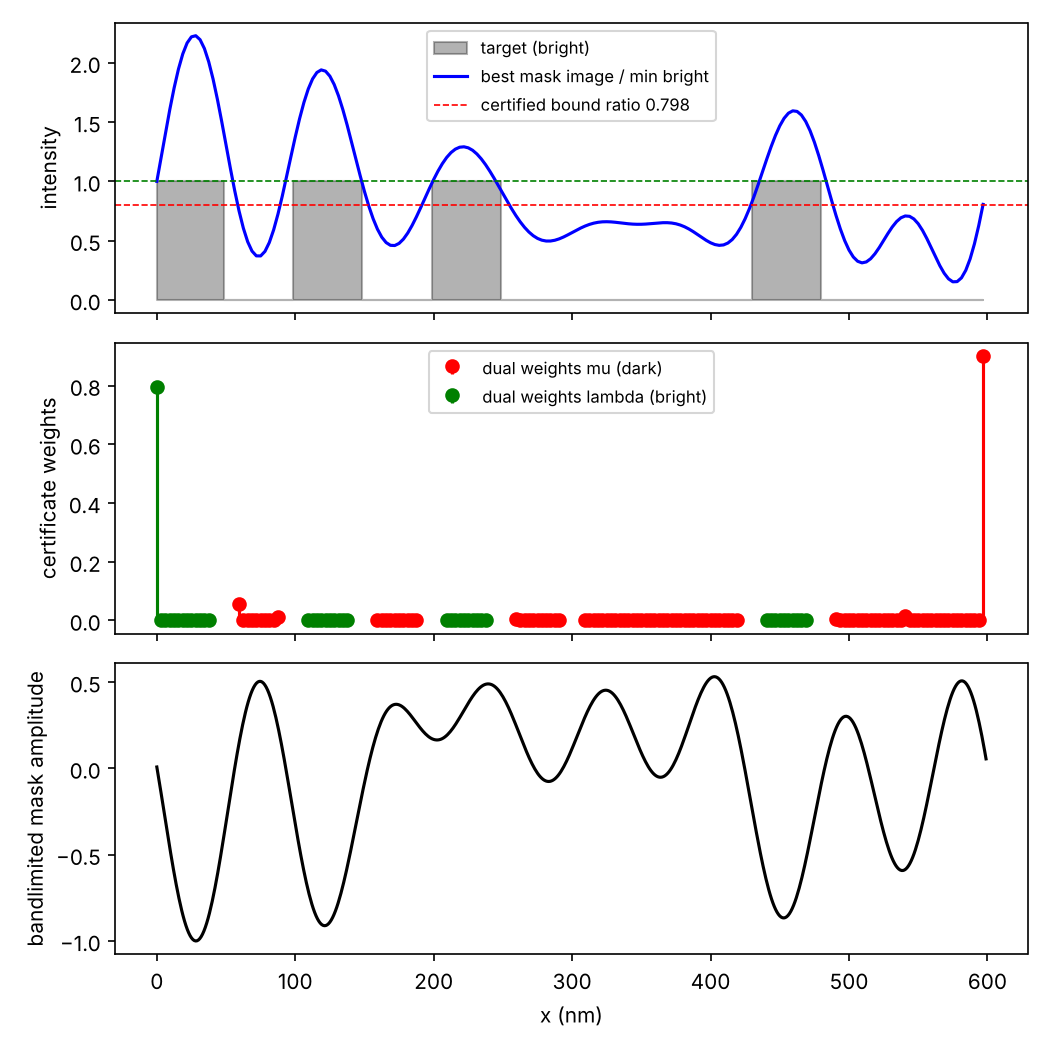
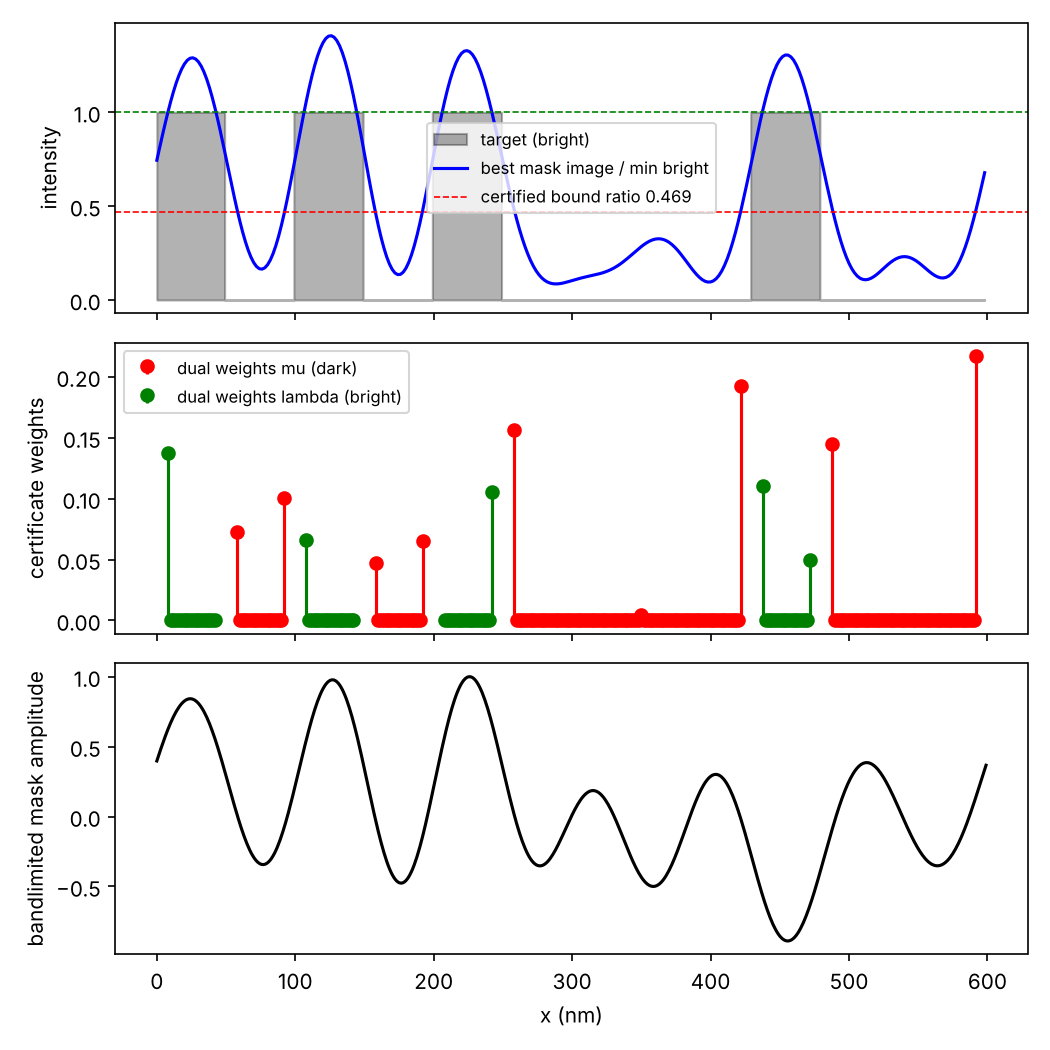
Add figures, outlier re-examination, manuscript updates
Claude-Session: https://claude.ai/code/session_013PTByAKYPg9y6TF4MuGJPW

diff --git a/results/RESULTS_TABLES.md b/results/RESULTS_TABLES.md
@@ -20,7 +20,7 @@
 | mixed_coh | 7 | 0.6235 | 0.6408 | 0.6408 | 2.78% | optimal_inaccurate |
 | isodense_coh | 9 | 0.5645 | 0.5738 | 0.5738 | 1.63% | optimal_inaccurate |
 
-### Random 1D targets (n=6): gap ≤1e-4: 100.0%; ≤1%: 100.0%; ≤5%: 100.0%; median 2.3e-07; max 0.000; worst certificate min-eig 4.1e-18
+### Random 1D targets (n=109): gap ≤1e-4: 69.7%; ≤1%: 82.6%; ≤5%: 91.7%; median 1.8e-06; max 0.173; worst certificate min-eig 1.3e-19
 
 ### Table 3 — Pixel vs Fourier relaxations, PSM vs binary (DNN), ILT baseline (σ=0.7 conventional)
 | case | F | Fourier PSM bound | pixel PSM bound | pixel nonneg (DNN) bound | ILT-PSM ratio | ILT-PSM refined | ILT-binary ratio | best PSM (pipeline) |
@@ -73,11 +73,12 @@ Theorem 4 numerics: necessity violations 0/2000; sufficiency failures 0/200.
 ### Table 6 — 2D layouts (DUV, NA 1.35), edge tolerance 12 nm (contacts120/100: 10/8 nm; T/line-end: 14 nm)
 | layout | cell (nm) | source pts | F | samples | bound ρ | max EL | best single mask ρ | gap | rank | SDP time (s) |
 |---|---|---|---|---|---|---|---|---|---|---|
-| contacts160_annular | [160, 160] | 28 | 13 | 260 | 0.2324 | 0.623 | 0.2324 | 0.00% | 1 | 0.3 |
-| contacts160_conv0.5 | [160, 160] | 13 | 9 | 260 | 0.2661 | 0.580 | 0.2661 | 0.00% | 1 | 0.2 |
-| contacts120_annular | [120, 120] | 28 | 9 | 156 | 0.3555 | 0.475 | 0.3555 | 0.00% | 1 | 0.2 |
-| contacts120_quasar | [120, 120] | 20 | 9 | 156 | 0.1932 | 0.676 | 0.1932 | 0.00% | 1 | 0.2 |
-| contacts100_quasar | [100, 100] | 20 | 5 | 156 | 0.6193 | 0.235 | 0.6193 | 0.00% | 1 | 0.2 |
+| contacts160_annular | [160, 160] | 28 | 13 | 320 | 0.5843 | 0.262 | 0.5861 | 0.30% | 1 | 0.4 |
+| contacts160_conv0.5 | [160, 160] | 13 | 9 | 320 | 0.6174 | 0.237 | 0.6177 | 0.04% | 1 | 0.4 |
+| contacts120_annular | [120, 120] | 28 | 9 | 216 | 0.6957 | 0.179 | 0.6962 | 0.07% | 1 | 0.4 |
+| contacts120_quasar | [120, 120] | 20 | 9 | 216 | 0.5740 | 0.271 | 0.5747 | 0.13% | 1 | 0.3 |
+| contacts100_quasar | [100, 100] | 20 | 5 | 197 | 0.8751 | 0.067 | 0.8754 | 0.03% | 1 | 0.2 |
+| Tjunction320_annular | [320, 320] | 28 | 61 | 1210 | 0.0000 | 1.000 | 0.4789 | 47889002351532.03% | 6 | 142.7 |
 
 ### Table 7 — Baseline Rayleigh-quotient bound vs SDP; complex-transmission masks
 | case | source | F | SDP real-mask bound | Rayleigh-quotient bound | SDP complex-mask bound |

diff --git a/notes/PAPER_DRAFT.md b/notes/PAPER_DRAFT.md
@@ -133,8 +133,13 @@ gaps > 5% have minimal optimal-face rank 2 or 3, consistent with Theorem 3 (inco
 coherent light). All certificates pass the independent PSD test after rigorization.
 6.4 **Certified multi-exposure gains (Table 2).** Lasserre-2 single-mask bounds: mixed_coh 0.4787 (= best single mask
 found to 7e-7) vs multi-exposure bound 0.4211 → certified gain 13.7%; iso-dense coherent: single-mask ≥ 0.4608 (best
-found 0.4741) vs 0.3625 → certified gain ≥ 27%. Both have minimum optimal-face rank 2: two exposures suffice.
-[[pending: process-window case from exp11]]
+found 0.4741) vs 0.3625 → certified gain ≥ 27%. Both have minimum optimal-face rank 2: two exposures suffice. On the random-target set, the four coherent-illumination
+instances with the largest gaps were re-examined with optimal-face exploration and Lasserre-2: in all four the
+Lasserre-2 single-mask bound coincides with the best single mask found (to 1e-6), so the multi-exposure gains of
+7.8%, 12.5%, 13.0% and 16.2% are certified, each with a rank-2 optimal face (two exposures). Lasserre-2 values were
+cross-checked with two solvers (CLARABEL 0.4787045 vs SCS 0.4787037 on the mixed target). One random instance
+(trial 16) has a certified bound ≈ 1e-7 (the dark region can be made essentially perfectly dark), for which the relative
+gap is ill-defined; its absolute gap is 9e-4. [[pending: process-window case, exp11b]]
 6.5 **PSM vs binary (Table 3).** DNN relaxation for nonnegative masks: iso-dense 0.4266 vs PSM 0.3879 (binary ≥ 10%
 worse, certified); pixel-domain and Fourier-domain PSM relaxations agree to 1e-5.
 6.6 **Standard ILT vs certified optimum (Table 3b).** Pattern-error ILT (sigmoid resist, open-frame-normalized
